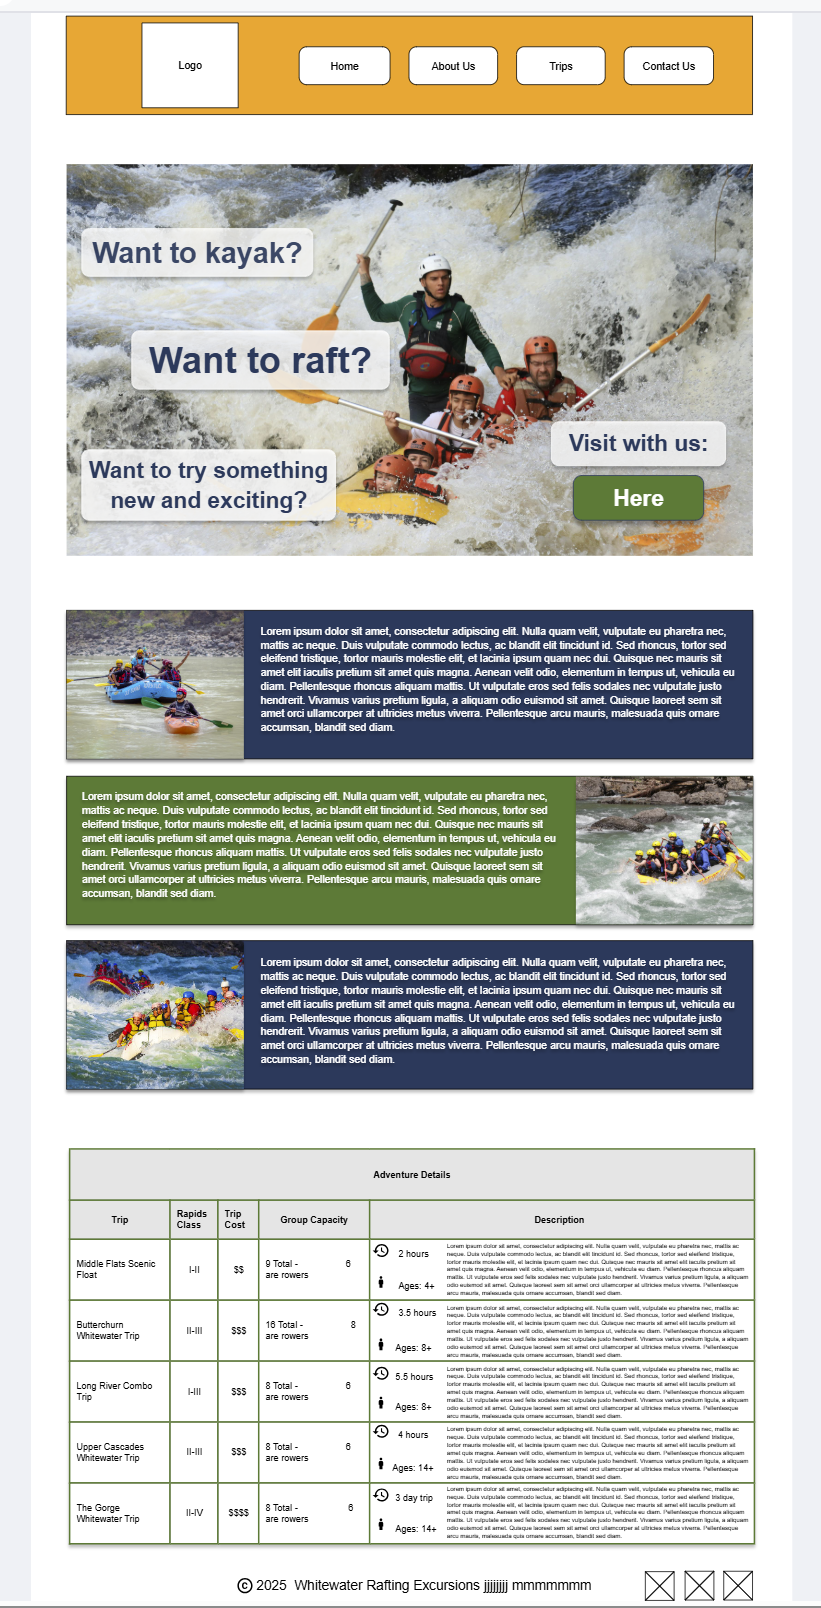
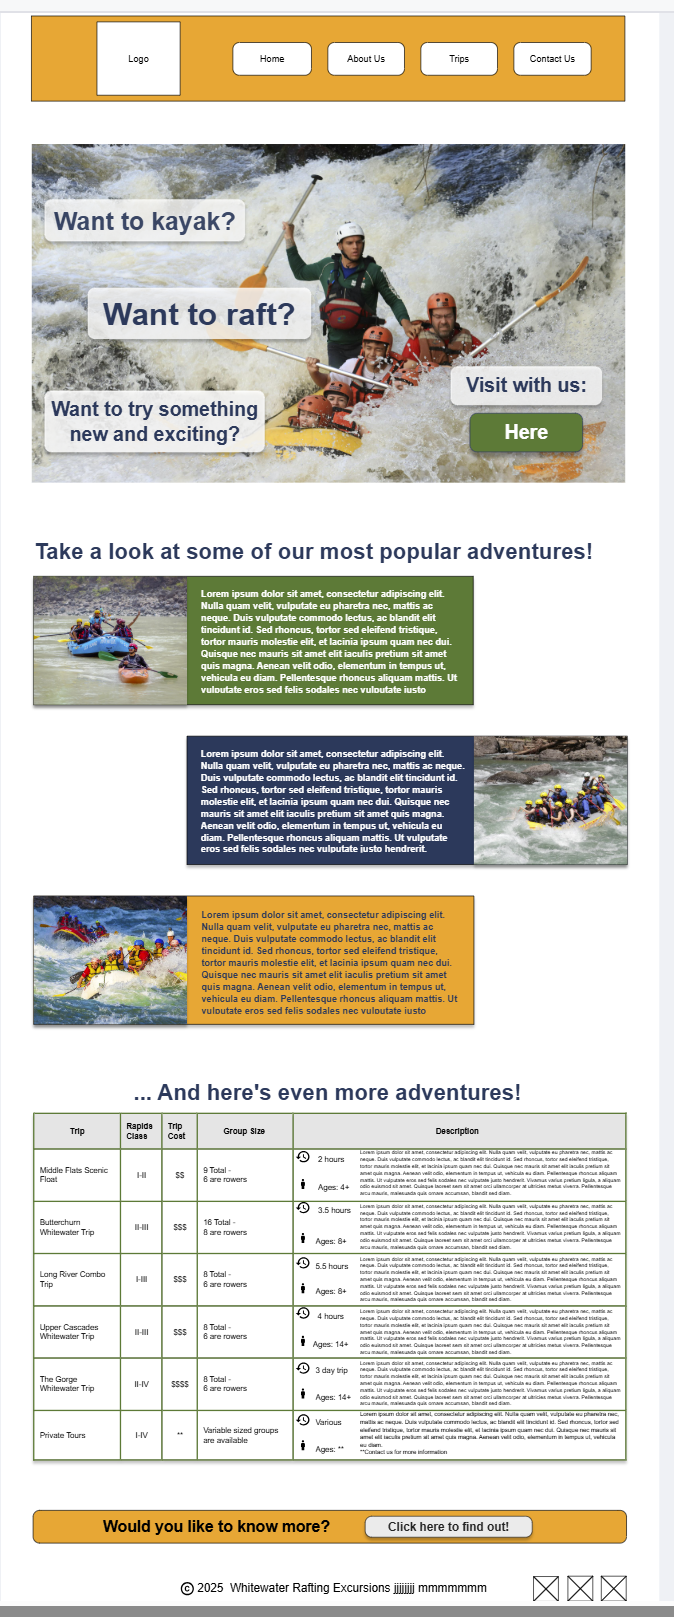
W06 rafting Trips html v02

diff --git a/wwr/trips.html b/wwr/trips.html
@@ -41,7 +41,7 @@
         </section>
 
         <section class="trip-descriptions">
-            <h2>Take a look at some of our trips:</h2>
+            <h2>Take a look at some of our most popluar trips:</h2>
             <div>
                 <img src="images/rafting-info-02.jpg" alt="Floating along the Middle Flats">
                 <p> Middle Flats Scenic Float Trip <br>
@@ -78,7 +78,7 @@
             </div>
         </section>
 
-        <h2>Do you want to know more? </h2>
+        <h2>... And here's even more adventures! </h2>
         <table id="trip-information">
             <thead>
                 <tr>
@@ -160,6 +160,9 @@
                 </td>
             </tr>
         </table>
+
+        <h2>Would you like to know more?</h2>
+        <button>Click Here to find out!</button>
     </main>
 
     <footer>
